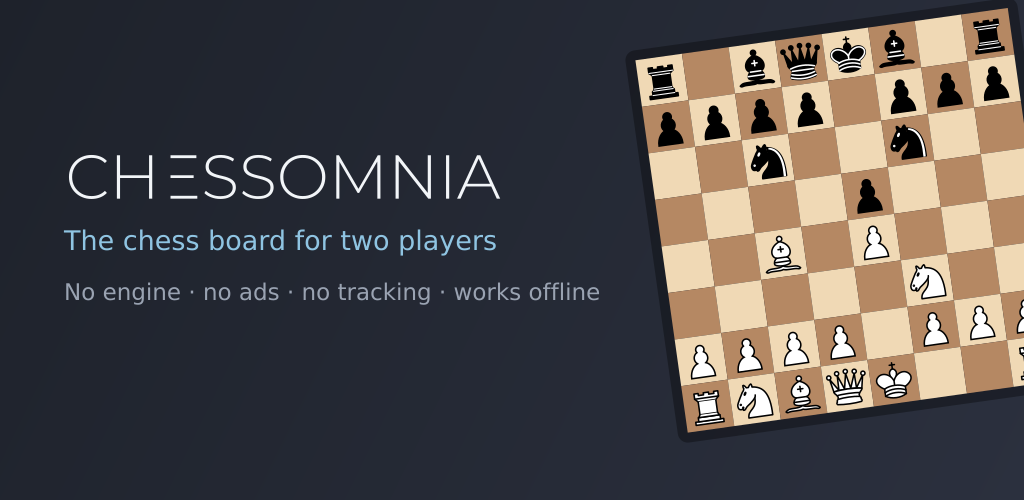
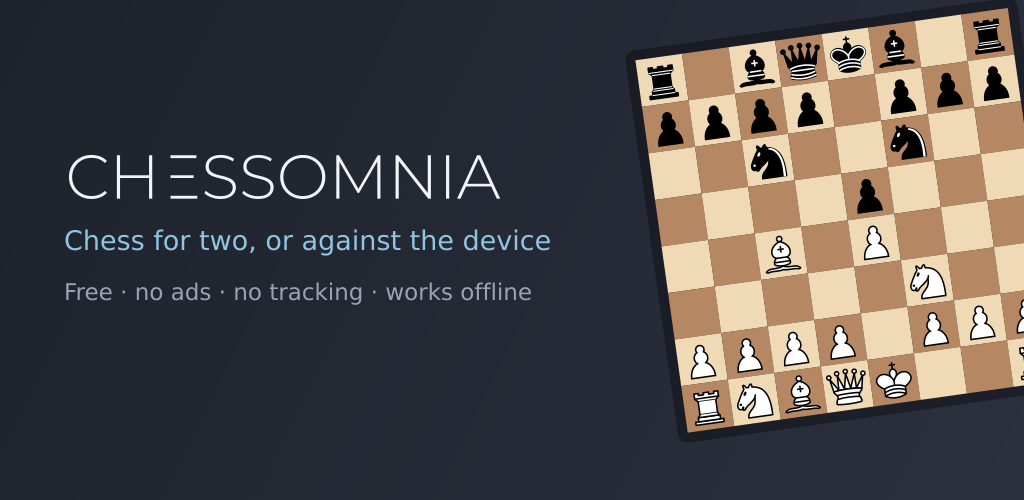
Tablet screenshots, a Spanish store listing, and a stale feature graphic
The feature graphic still said "No engine" -- true before 1.3.1, wrong
since. Updated the tagline in render_store_assets.py and regenerated it.

Added tablet screenshots (1840x2944): the seven special-move situations
and two against-the-device games, plus Settings in English, German and
Spanish. The board/opponent shots exist only with German UI chrome --
what they illustrate is visual, not language-specific, so only Settings
(mostly text) was taken in all three languages.

store/listing-es.md is a new, independent Spanish translation of the
store listing, not a literal one, same as the German file. Both listing
files updated to point at store/screenshots/README.md for the current
asset inventory instead of restating it.

Changed region(s): [[0.0625, 0.45, 0.5312, 0.51], [0.0625, 0.57, 0.5938, 0.6]]

diff --git a/tools/render_store_assets.py b/tools/render_store_assets.py
@@ -195,8 +195,8 @@ def main():
   <g transform="translate(64,150) scale({scale})">
     {wm}
   </g>
-  <text x="64" y="250" font-family="Roboto, DejaVu Sans, sans-serif" font-size="27" fill="#8FC4E2">The chess board for two players</text>
-  <text x="64" y="300" font-family="Roboto, DejaVu Sans, sans-serif" font-size="23" fill="#9AA3B2">No engine &#183; no ads &#183; no tracking &#183; works offline</text>
+  <text x="64" y="250" font-family="Roboto, DejaVu Sans, sans-serif" font-size="27" fill="#8FC4E2">Chess for two, or against the device</text>
+  <text x="64" y="300" font-family="Roboto, DejaVu Sans, sans-serif" font-size="23" fill="#9AA3B2">Free &#183; no ads &#183; no tracking &#183; works offline</text>
 
   <!-- Slight tilt so the board reads as an object on a table rather than a
        screenshot pasted onto the canvas. -->

diff --git a/store/listing-es.md b/store/listing-es.md
@@ -1,0 +1,101 @@
+# Ficha de Google Play — Español
+
+## Nombre de la app (máx. 30 caracteres)
+
+```
+Chessomnia
+```
+
+## Descripción breve (máx. 80 caracteres)
+
+```
+Ajedrez para dos o contra el dispositivo. Gratis, sin anuncios ni cuenta.
+```
+
+## Descripción completa (máx. 4000 caracteres)
+
+```
+Chessomnia convierte tu tablet o tu móvil en un tablero de ajedrez. Dos jugadores, un solo dispositivo, sentados uno frente al otro — igual que en un tablero real. Y cuando no hay nadie más, el dispositivo también juega: cuatro niveles, desde uno que un niño de nueve años puede ganar hasta un buen aficionado de club.
+
+
+GRATIS. SIN ANUNCIOS. SIN CUENTA. SIN SEGUIMIENTO.
+
+Ninguno de los cuatro tiene letra pequeña.
+
+Gratis significa gratis: sin prueba, sin versión reducida, nada que desbloquear, sin compras dentro de la app. Sin publicidad, sin análisis de uso. Sin cuenta, sin registro, sin correo: se instala y se juega.
+
+Y el seguimiento no es una promesa, es una propiedad técnica: la app no tiene ningún permiso de Android, ni siquiera de internet, así que no puede enviar nada a ningún sitio. Tus partidas nunca salen del dispositivo — compruébalo, es de código abierto.
+
+
+FUNCIONA COMPLETAMENTE SIN CONEXIÓN
+
+No hay nada con lo que conectarse: en un avión, en un sótano, en una tienda de campaña, da igual. No hay servidor; el oponente calcula en tu propio dispositivo.
+
+
+UN SUSTITUTO DEL TABLERO
+
+Lo importante son las dos personas en la mesa. Chessomnia se encarga de lo que un tablero de madera no puede hacer:
+
+• Conoce todas las reglas: enroque, captura al paso, coronación, regla de las 50 jugadas, repetición por triplicado y posiciones muertas.
+• Nunca deja pasar una jugada ilegal, y nunca se le escapa un jaque mate.
+• Deja las piezas donde están cuando el dispositivo se apaga.
+
+
+UN OPONENTE PARA CUANDO NO HAY NADIE MÁS
+
+Juega contra el dispositivo en vez de contra otra persona, con el color que prefieras. Cuatro niveles: el más débil, para niños de nueve a once años, mantiene su posición en orden pero pasa por alto casi todo lo que dejes al descubierto; el más fuerte es un buen aficionado de club, a propósito no tan fuerte como podría ser. Un oponente al que nadie puede ganar no es una virtud.
+
+Si le deshaces una jugada, vuelve a ser tu turno, no el suyo.
+
+
+UNA AYUDA PARA APRENDER, NO UN PROFESOR
+
+Toca una pieza y se marcan todas las casillas a las que puede moverse legalmente — con el enroque y la captura al paso resaltados aparte, porque son las jugadas que más se pasan por alto. Desactiva las ayudas en cuanto ya no las necesites.
+
+Lo que nunca vas a encontrar es una sugerencia de jugada, ni una barra que te diga quién va ganando. El oponente mueve y no dice nada sobre tu posición. Averiguarlo es el juego.
+
+
+PENSADO PARA UN DISPOSITIVO TUMBADO SOBRE LA MESA
+
+Queda mejor en una tablet. En un móvil funciona igual: el tablero es más pequeño, nada más cambia.
+
+Todo se deriva de esa única idea:
+
+• Reloj, estado y botones existen por duplicado, uno en cada borde de la mesa: nadie lee al revés.
+• Las piezas de enfrente se dibujan giradas — como hace la forma de una pieza real en un tablero de madera.
+• "Girar el tablero" lo gira en el sitio, sin levantar el dispositivo.
+• Avisos y diálogo de coronación se orientan hacia quien los activó.
+• Al terminar una partida, nada tapa el tablero: tras un mate quieres ver por qué, y ahí están el rey resaltado y la última jugada marcada.
+
+
+UN RELOJ QUE INFORMA EN VEZ DE JUZGAR
+
+El reloj cuenta hacia arriba: muestra cuánto ha pensado cada jugador en total. Nunca se agota y nunca termina una partida — en un tablero casero, para eso sirve un reloj. Se puede desactivar por completo.
+
+Al deshacer una jugada, el tiempo de reflexión vuelve con ella, tal como funciona de verdad un "takeback" entre amigos.
+
+
+CORRECCIÓN QUE PUEDES COMPROBAR
+
+El motor de reglas está verificado contra 12,4 millones de posiciones de las pruebas perft estándar, y contrastado con una implementación independiente en 4.576 posiciones, concentradas a propósito en jaques mate y ahogados.
+
+Si algo falla, "Informar de un problema" genera el texto exacto para reproducirlo, incluida cada jugada legal en la posición en disputa.
+
+
+CÓDIGO ABIERTO
+
+Apache-2.0. Léelo, compílalo, modifícalo:
+https://github.com/alramlechner/Chessomnia
+```
+
+## Nota de mantenimiento
+
+La versión en español es una traducción independiente, no literal. Si el
+contenido de `listing-en.md` cambia, hay que actualizar también este archivo —
+la ficha de Play muestra los tres idiomas por separado, y que se vayan
+distanciando se nota.
+
+⚠ **Play cuenta caracteres, y los límites son estrictos:** 30 para el nombre,
+80 para la breve, 4000 para la completa. Antes de pegar el texto en la
+Console, hay que contarlos — ver el script en `listing-de.md`, que recorre los
+tres archivos.

diff --git a/store/screenshots/README.md b/store/screenshots/README.md
@@ -1,8 +1,10 @@
 # Screenshots
 
-Taken on a device, then cropped. Nothing here is rendered from the vector
+Taken on a device, then cropped where needed. Nothing here is rendered from the vector
 sources: Google Play requires screenshots to show the real app, and a mock-up of
 the board would misrepresent it.
+
+## Phone
 
 | File | Shows | Size |
 |---|---|---|
@@ -10,8 +12,6 @@ the board would misrepresent it.
 | `phone-2-en-passant.png` | an en passant capture offered on the board | 768 × 766 |
 | `phone-3-two-sided-layout.png` | the whole screen: a panel at each table edge, the far one rotated | 768 × 1522 |
 | `phone-4-settings-de.png` | settings, German UI | 768 × 1529 |
-
-## Two constraints worth knowing before replacing these
 
 **Aspect ratio.** Play rejects anything where the longer side is more than twice
 the shorter one. A raw screenshot from a modern phone is often about 2.23:1 and
@@ -24,9 +24,42 @@ But the two-sided layout — a panel at each edge, the opponent's rotated — is
 one thing this app has and others do not. At least one screenshot must therefore
 show the whole screen, or the listing advertises something interchangeable.
 
+Taken with `tools/capture_screenshots.py` on a phone-sized device, before the
+opponent shipped. Still valid — nothing shown in them changed — but a phone
+screenshot of the opponent (headline "· device", the CPU badge) does not exist
+yet. See `tablet/` for that.
+
+## Tablet (`tablet/`)
+
+1840 × 2944, taken with `tools/capture_screenshots.py` and, for the three
+settings variants, by hand with `cmd locale set-app-locales` to switch only the
+app's language without touching the device's system locale (Android 13+).
+
+| File | Shows |
+|---|---|
+| `01-opening-move-options-light.png` | a piece selected, its legal moves marked (light theme) |
+| `02-castling-available-dark.png` | castling offered, highlighted separately from an ordinary king move (dark theme) |
+| `03-capture-offered-light.png` | a capture on offer (light theme) |
+| `04-en-passant-dark.png` | an en passant capture on offer (dark theme) |
+| `05-check-light.png` | check, the king and the threat visible (light theme) |
+| `06-promotion-dialog-dark.png` | the promotion dialog, oriented towards whoever triggered it (dark theme) |
+| `07-checkmate-light.png` | checkmate — the board uncovered, king and last move highlighted (light theme) |
+| `vs-device-01-learning-light.png` | a game against the device, headline "· Gerät", CPU badge on its panel (light theme) |
+| `vs-device-02-club-dark.png` | the same, strongest level, dark theme |
+| `settings-en.png` | Settings, English UI |
+| `settings-de.png` | Settings, German UI |
+| `settings-es.png` | Settings, Spanish UI |
+
+The nine board/opponent shots exist only with German UI chrome (clock, status
+line, "· Gerät") — the special-move situations they illustrate (castling, en
+passant, checkmate, the opponent) are visual and not language-specific, so they
+were not retaken per language. Only Settings, which is mostly text, got all
+three.
+
 ## Still missing
 
-Tablet screenshots. Play wants at least four for tablets and Chromebooks, at
-1080 px or more, in 16:9 or 9:16 — none of the files here qualify. That is also
-where the app looks best: on a tablet the board fills the screen instead of
-floating between two empty bands.
+A **phone** screenshot of the device opponent (the tablet ones above cover it,
+but Play also wants phone screenshots and none of the existing four show it).
+
+A **7″ tablet** set — Play distinguishes 7″ from 10″; everything above was taken
+on a 10″-class device (1840 × 2944, ~340 dpi).

diff --git a/store/listing-en.md b/store/listing-en.md
@@ -127,16 +127,10 @@ https://github.com/alramlechner/Chessomnia/blob/main/PRIVACY.md
 |---|---|---|
 | App icon, 512×512 PNG | `store/play-icon-512.png` | ready |
 | Feature graphic, 1024×500 PNG | `store/play-feature-1024x500.png` | ready |
-| Phone screenshots (2–8, min 320px) | — | **must be taken on a device** |
+| Phone screenshots (2–8, min 320px) | `store/screenshots/phone-*.png` | ready, but predates the device opponent — see `store/screenshots/README.md` |
 | 7" tablet screenshots (up to 8) | — | **must be taken on a device** |
-| 10" tablet screenshots (up to 8) | — | **must be taken on a device** |
+| 10" tablet screenshots (up to 8) | `store/screenshots/tablet/*.png` | ready — opening, castling, capture, en passant, check, promotion, checkmate, the device opponent (two levels), and Settings in en/de/es |
 
 Screenshots are deliberately not generated from the vector sources: Google Play
 requires them to show the real app, and a rendered mock-up would misrepresent
-it. Suggested set, in this order:
-
-1. The board mid-game with legal moves shown for a selected piece.
-2. Checkmate — both panels showing the result and the reason, board uncovered.
-3. The promotion dialog, rotated towards the player who triggered it.
-4. The home screen.
-5. Settings.
+it. Full inventory and what each one shows: `store/screenshots/README.md`.

diff --git a/store/listing-de.md b/store/listing-de.md
@@ -103,7 +103,7 @@ Console nachzählen:
 ```bash
 python3 - <<'EOF'
 import re, pathlib
-for f in ("store/listing-en.md", "store/listing-de.md"):
+for f in ("store/listing-en.md", "store/listing-de.md", "store/listing-es.md"):
     b = re.findall(r"```\n(.*?)\n```", pathlib.Path(f).read_text(), re.S)
     print(f, "kurz", len(b[1]), "voll", len(b[2]))
 EOF
